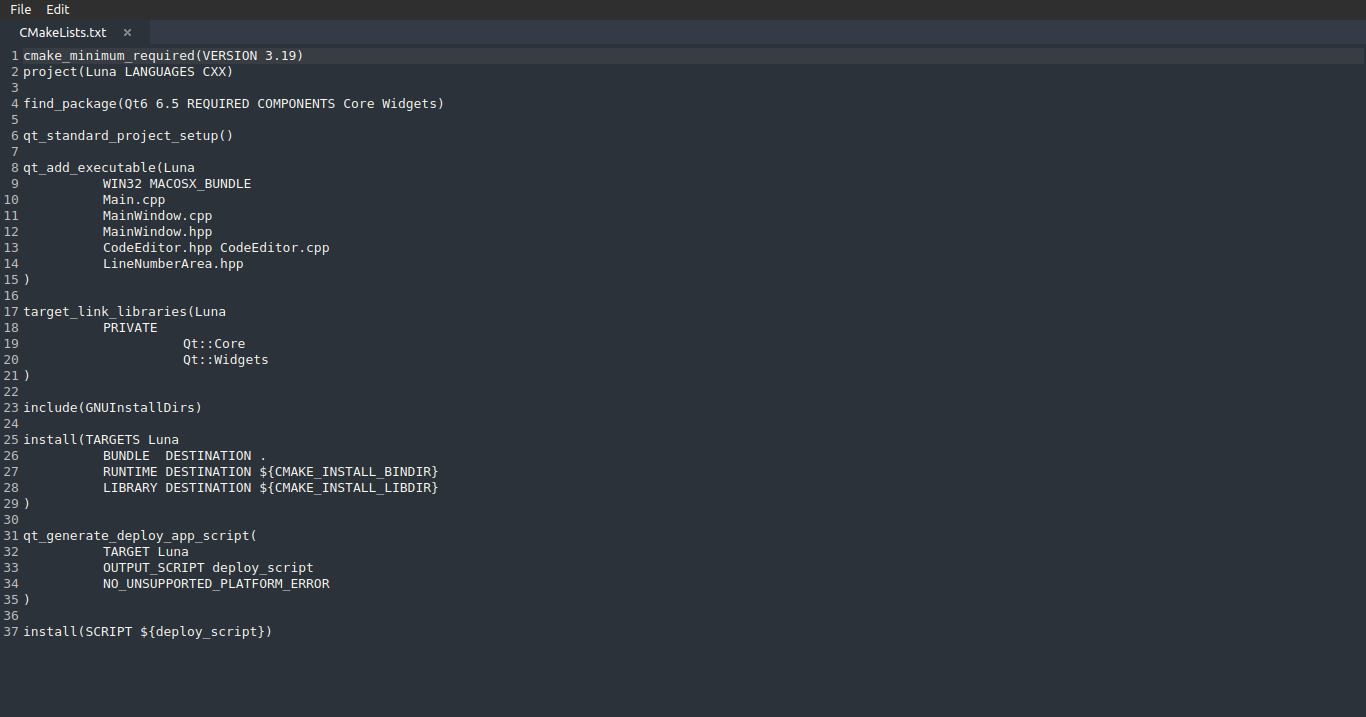
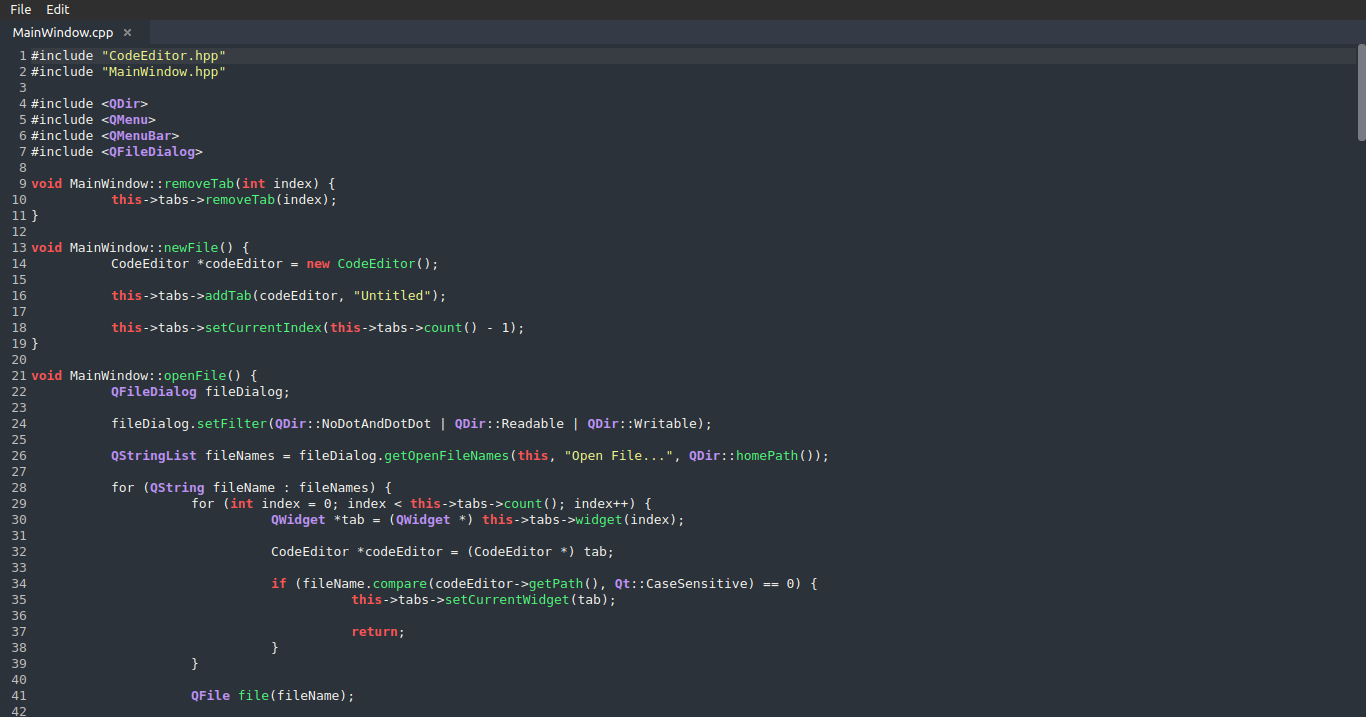
Pequenos ajustes no realce

Changed region(s): [[0.0, 0.0307, 0.6149, 1.0], [0.9839, 0.0614, 1.0, 0.2148], [0.123, 0.9512, 0.246, 0.9819]]

diff --git a/Highlighter.cpp b/Highlighter.cpp
@@ -11,7 +11,7 @@ Highlighter::Highlighter(QTextDocument *parent) : QSyntaxHighlighter(parent) {
 
 	keywordFormat.setFontWeight(QFont::Bold);
 
-	rule.pattern = QRegularExpression(QStringLiteral("\\balignas\\b|\\balignof\\b|\\band\\b|\\band_eq\\b|\\basm\\b|\\batomic_cancel\\b|\\batomic_commit\\b|\\batomic_noexcept\\b|\\bauto\\b|\\bbitand\\b|\\bbitor\\b|\\bbool\\b|\\bbreak\\b|\\bcase\\b|\\bcatch\\b|\\bchar\\b|\\bchar8_t\\b|\\bchar16_t\\b|\\bchar32_t\\b|\\bclass\\b|\\bcompl\\b|\\bconcept\\b|\\bconst\\b|\\bconsteval\\b|\\bconstexpr\\b|\\bconstinit\\b|\\bconst_cast\\b|\\bcontinue\\b|\\bcontract_assert\\b|\\bco_await\\b|\\bco_return\\b|\\bco_yield\\b|\\bdecltype\\b|\\bdefault\\b|\\bdelete\\b|\\bdo\\b|\\bdouble\\b|\\bdynamic_cast\\b|\\belse\\b|\\benum\\b|\\bexplicit\\b|\\bexport\\b|\\bextern\\b|\\bfalse\\b|\\bfloat\\b|\\bforv\\b|\\bfriend\\b|\\bgoto\\b|\\bif\\b|\\binline\\b|\\bint\\b|\\blong\\b|\\bmutable\\b|\\bnamespace\\b|\\bnew\\b|\\bnoexcept\\b|\\bnot\\b|\\bnot_eq\\b|\\bnullptrv\\b|\\boperator\\b|\\bor\\b|\\bor_eq\\b|\\bprivate\\b|\\bprotected\\b|\\bpublic\\b|\\breflexpr\\b|\\bregister\\b|\\breinterpret_cast\\b|\\brequires\\b|\\breturn\\b|\\bshort\\b|\\bsigned\\b|\\bsizeof\\b|\\bstatic\\b|\\bstatic_assert\\b|\\bstatic_cast\\b|\\bstruct\\b|\\bswitch\\b|\\bsynchronized\\b|\\btemplate\\b|\\bthis\\b|\\bthread_local\\b|\\bthrow\\b|\\btrue\\b|\\btry\\b|\\btypedef\\b|\\btypeid\\b|\\btypename\\b|\\bunion\\b|\\bunsigned\\b|\\busing\\b|\\bvirtual\\b|\\bvoid\\b|\\bvolatile\\b|\\bwchar_t\\b|\\bwhile\\b|\\bxor\\b|\\bxor_eq\\b"));
+	rule.pattern = QRegularExpression(QStringLiteral("\\for\\b|\\balignas\\b|\\balignof\\b|\\band\\b|\\band_eq\\b|\\basm\\b|\\batomic_cancel\\b|\\batomic_commit\\b|\\batomic_noexcept\\b|\\bauto\\b|\\bbitand\\b|\\bbitor\\b|\\bbool\\b|\\bbreak\\b|\\bcase\\b|\\bcatch\\b|\\bchar\\b|\\bchar8_t\\b|\\bchar16_t\\b|\\bchar32_t\\b|\\bclass\\b|\\bcompl\\b|\\bconcept\\b|\\bconst\\b|\\bconsteval\\b|\\bconstexpr\\b|\\bconstinit\\b|\\bconst_cast\\b|\\bcontinue\\b|\\bcontract_assert\\b|\\bco_await\\b|\\bco_return\\b|\\bco_yield\\b|\\bdecltype\\b|\\bdefault\\b|\\bdelete\\b|\\bdo\\b|\\bdouble\\b|\\bdynamic_cast\\b|\\belse\\b|\\benum\\b|\\bexplicit\\b|\\bexport\\b|\\bextern\\b|\\bfalse\\b|\\bfloat\\b|\\bforv\\b|\\bfriend\\b|\\bgoto\\b|\\bif\\b|\\binline\\b|\\bint\\b|\\blong\\b|\\bmutable\\b|\\bnamespace\\b|\\bnew\\b|\\bnoexcept\\b|\\bnot\\b|\\bnot_eq\\b|\\bnullptrv\\b|\\boperator\\b|\\bor\\b|\\bor_eq\\b|\\bprivate\\b|\\bprotected\\b|\\bpublic\\b|\\breflexpr\\b|\\bregister\\b|\\breinterpret_cast\\b|\\brequires\\b|\\breturn\\b|\\bshort\\b|\\bsigned\\b|\\bsizeof\\b|\\bstatic\\b|\\bstatic_assert\\b|\\bstatic_cast\\b|\\bstruct\\b|\\bswitch\\b|\\bsynchronized\\b|\\btemplate\\b|\\bthis\\b|\\bthread_local\\b|\\bthrow\\b|\\btrue\\b|\\btry\\b|\\btypedef\\b|\\btypeid\\b|\\btypename\\b|\\bunion\\b|\\bunsigned\\b|\\busing\\b|\\bvirtual\\b|\\bvoid\\b|\\bvolatile\\b|\\bwchar_t\\b|\\bwhile\\b|\\bxor\\b|\\bxor_eq\\b"));
 
 	rule.format = keywordFormat;
 
@@ -25,9 +25,21 @@ Highlighter::Highlighter(QTextDocument *parent) : QSyntaxHighlighter(parent) {
 
 	classFormat.setFontWeight(QFont::Bold);
 
-	rule.pattern = QRegularExpression(QStringLiteral("\\bQ[A-Za-z]+\\b"));
+	rule.pattern = QRegularExpression(QStringLiteral("(?<!([a-z]|::))[A-Z][A-Za-z]+"));
 
 	rule.format = classFormat;
+
+	highlightingRules.append(rule);
+
+	QTextCharFormat numberFormat;
+
+	QColor pink(255, 121, 198);
+
+	numberFormat.setForeground(pink);
+
+	rule.pattern = QRegularExpression(QStringLiteral("(?<![a-zA-Z])[0-9](?!=[a-zAZ])"));
+
+	rule.format = numberFormat;
 
 	highlightingRules.append(rule);
 

diff --git a/MainWindow.cpp b/MainWindow.cpp
@@ -21,8 +21,6 @@ void MainWindow::newFile() {
 void MainWindow::openFile() {
 	QFileDialog fileDialog;
 
-	// TODO: Listar primeiro os diretórios e depois os arquivos.
-
 	fileDialog.setFilter(QDir::NoDotAndDotDot | QDir::Readable | QDir::Writable);
 
 	QStringList fileNames = fileDialog.getOpenFileNames(this, "Open File...", QDir::homePath());
